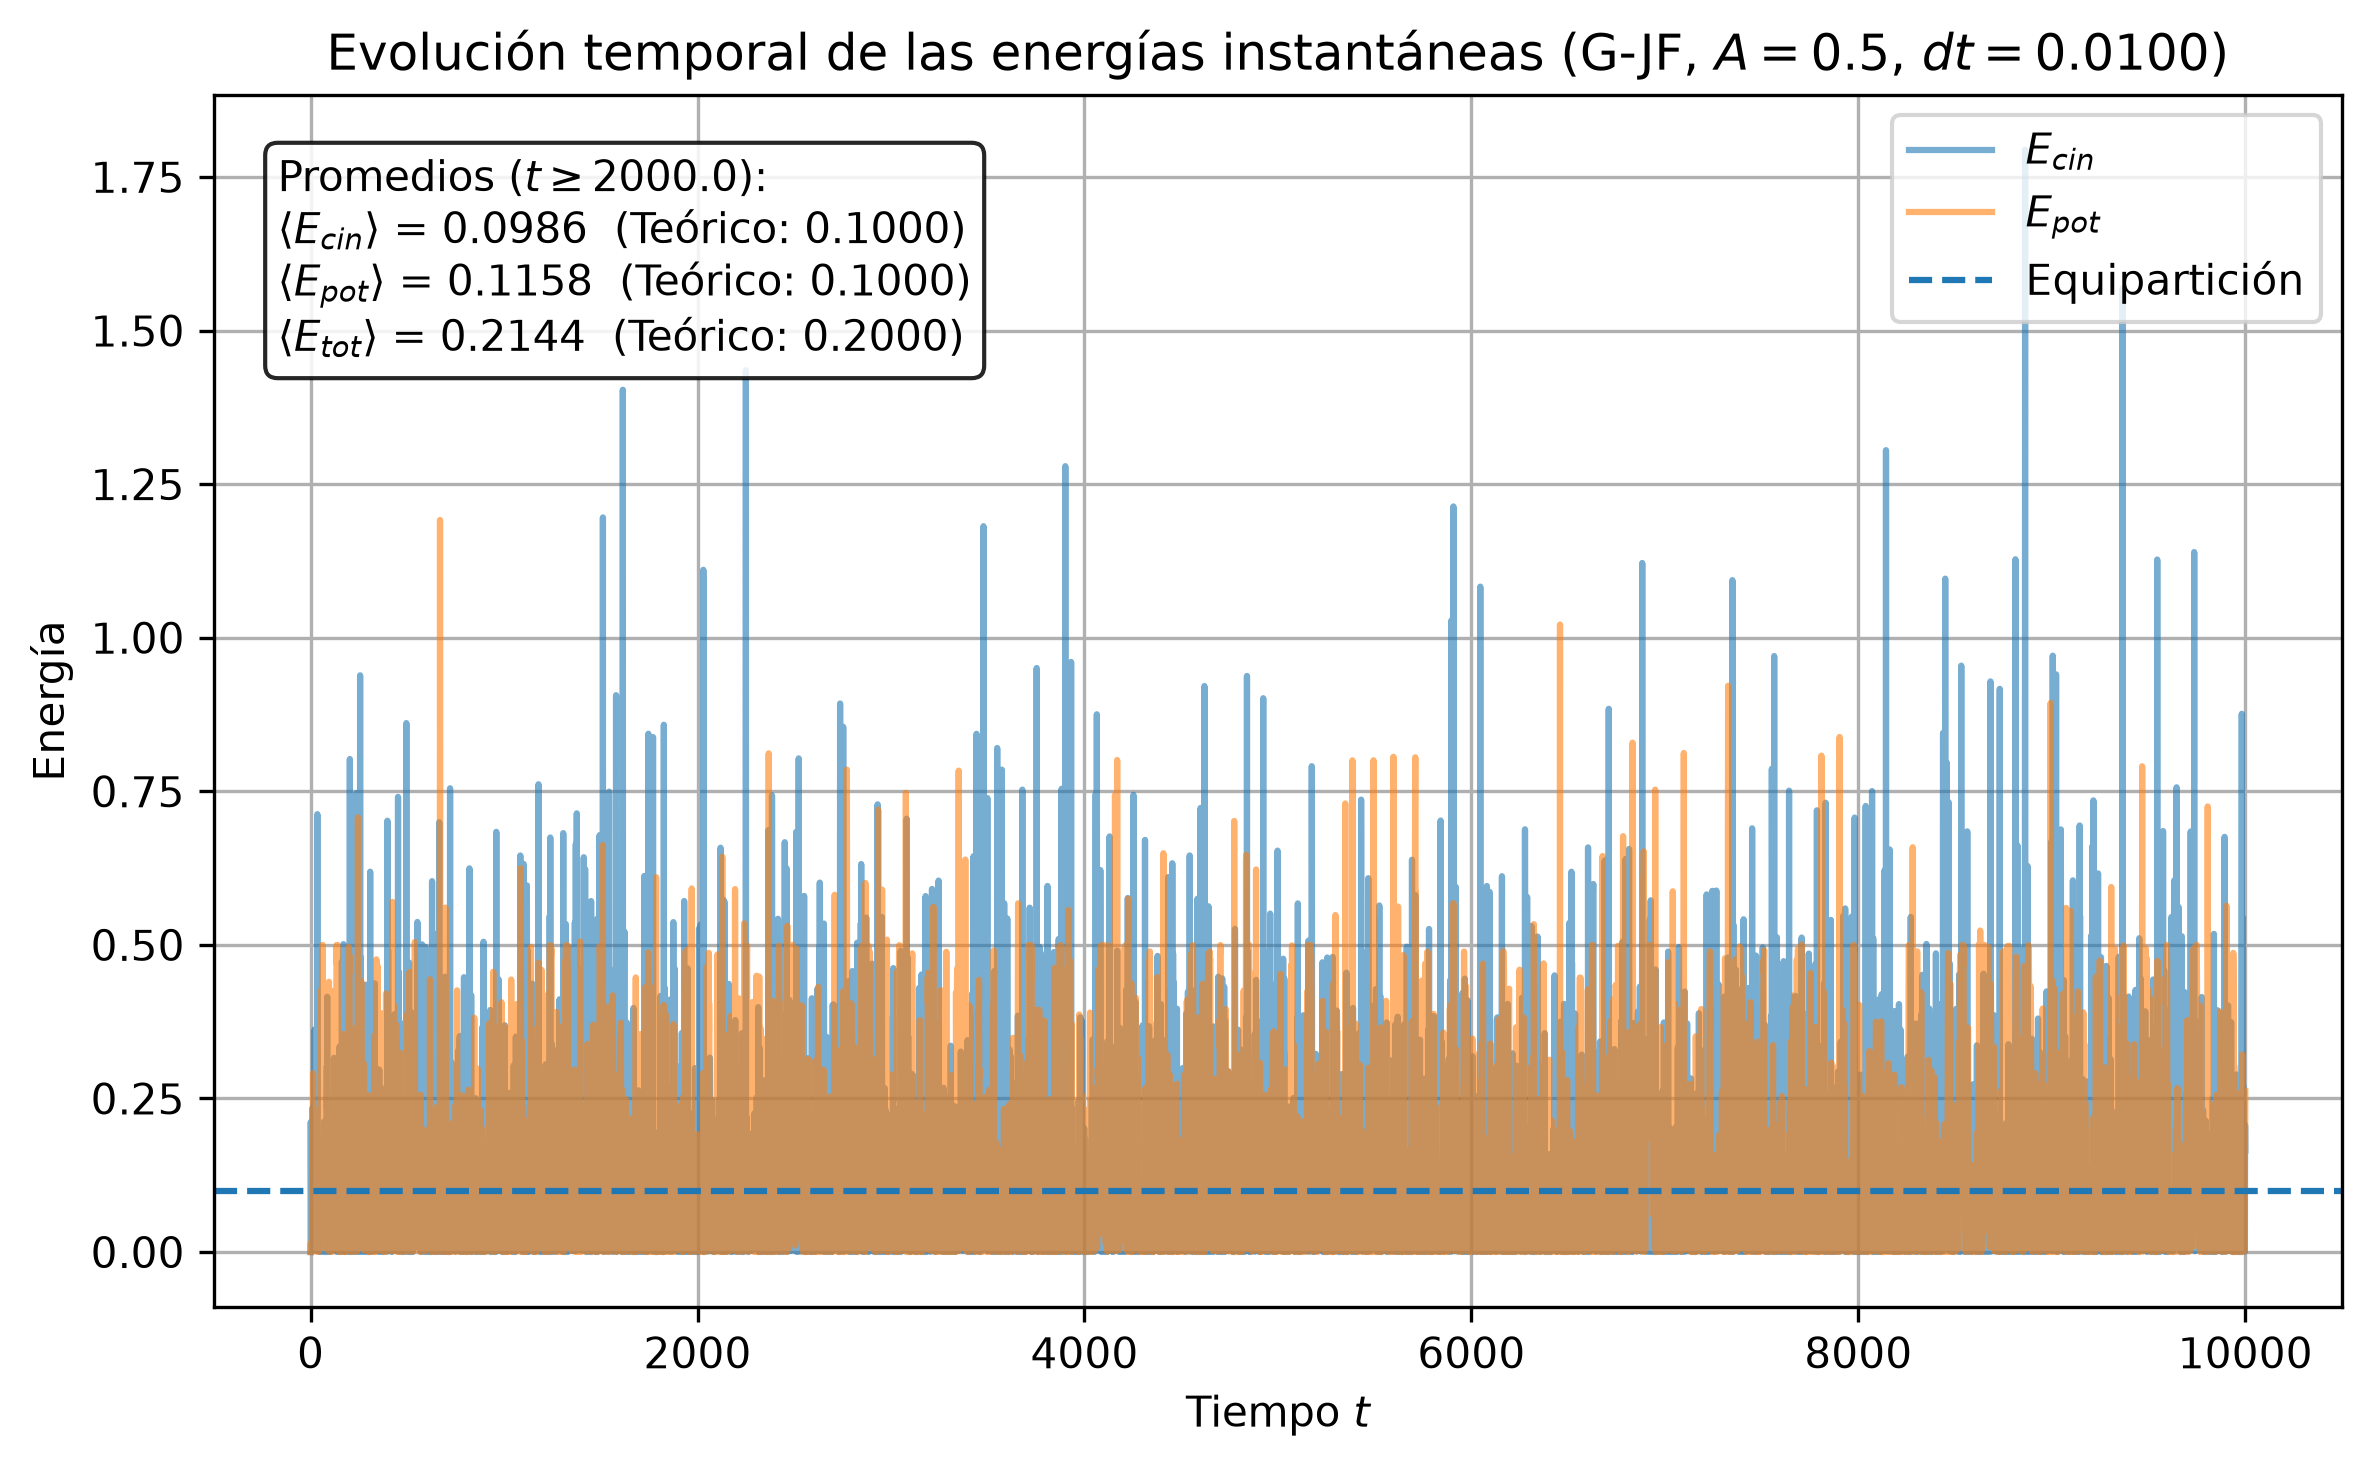
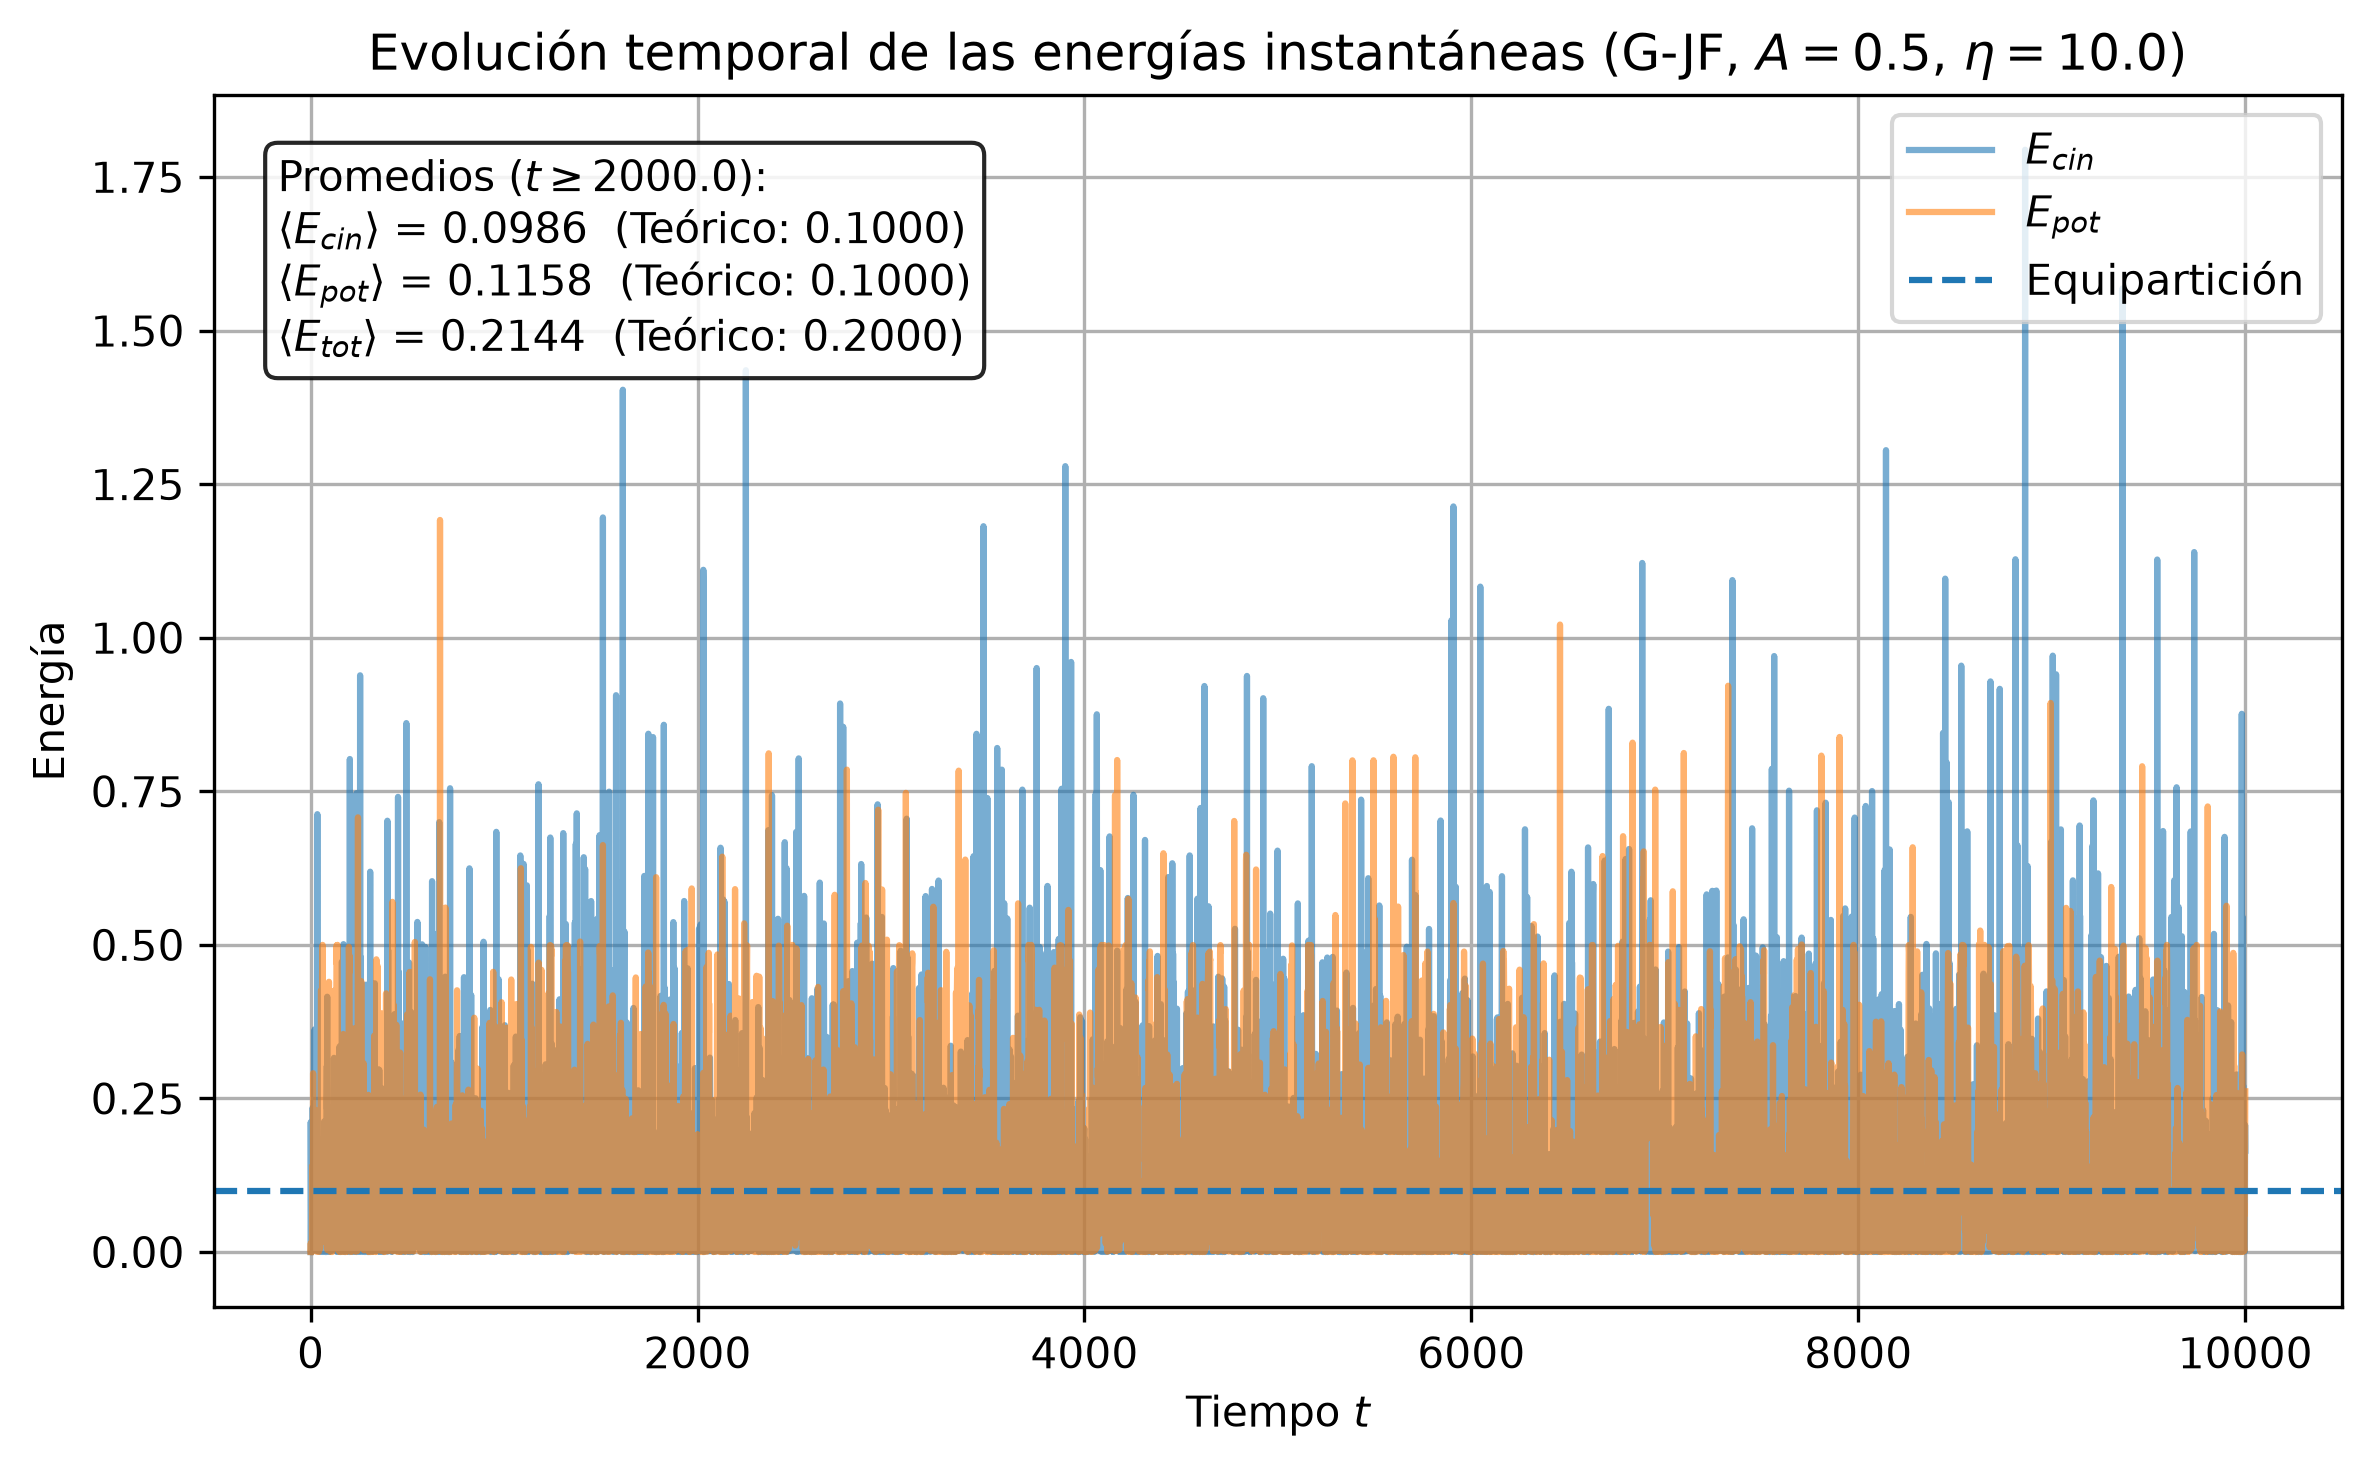
Curva teorica para la posicion

Changed region(s): [[0.1248, 0.0, 0.9359, 0.0613]]

diff --git a/analysis/harmonic_analysis.py b/analysis/harmonic_analysis.py
@@ -121,7 +121,7 @@ file_suffix = (
 )
 
 title_parameters = (
-    f"$A={A:.1f}$, $dt={dt:.4f}$"
+    f"$A={A:.1f}$, $\\eta={gamma:.1f}$"
     if model_name == "double_well"
     else f"$\\eta={gamma:.1f}$, $dt={dt:.4f}$"
 )
@@ -160,9 +160,30 @@ mean_Ep_theory = 0.5 * kBT
 
 mean_Etot_theory = kBT
 
-std_x_theory = np.sqrt(
-    kBT / k
-)
+if model_name == "double_well":
+    if A <= 0.0 or kBT <= 0.0:
+        raise ValueError("A y kBT deben ser positivos para double_well")
+
+    x_limit = np.sqrt(1.0 + np.sqrt(40.0 * kBT / A))
+    x_theory_grid = np.linspace(-x_limit, x_limit, 20001)
+    boltzmann_weights = np.exp(
+        -A * (x_theory_grid ** 2 - 1.0) ** 2 / kBT
+    )
+    position_normalization = np.trapezoid(
+        boltzmann_weights,
+        x_theory_grid
+    )
+    std_x_theory = np.sqrt(
+        np.trapezoid(
+            x_theory_grid ** 2 * boltzmann_weights,
+            x_theory_grid
+        )
+        / position_normalization
+    )
+else:
+    std_x_theory = np.sqrt(
+        kBT / k
+    )
 
 std_v_theory = np.sqrt(
     kBT / mass
@@ -307,22 +328,32 @@ x_grid = np.linspace(
     200
 )
 
-P_x_theory = (
-    1.0
-    / (
-        np.sqrt(2.0 * np.pi)
-        * std_x_theory
+if model_name == "double_well":
+    P_x_theory = (
+        np.exp(
+            -A * (x_grid ** 2 - 1.0) ** 2 / kBT
+        )
+        / position_normalization
     )
-    * np.exp(
-        -(x_grid ** 2)
-        / (2.0 * std_x_theory ** 2)
+    position_theory_label = "Boltzmann teórica"
+else:
+    P_x_theory = (
+        1.0
+        / (
+            np.sqrt(2.0 * np.pi)
+            * std_x_theory
+        )
+        * np.exp(
+            -(x_grid ** 2)
+            / (2.0 * std_x_theory ** 2)
+        )
     )
-)
+    position_theory_label = "Gaussiana teórica"
 
 plt.plot(
     x_grid,
     P_x_theory,
-    label="Gaussiana teórica"
+    label=position_theory_label
 )
 
 plt.xlabel("Posición $x$")
